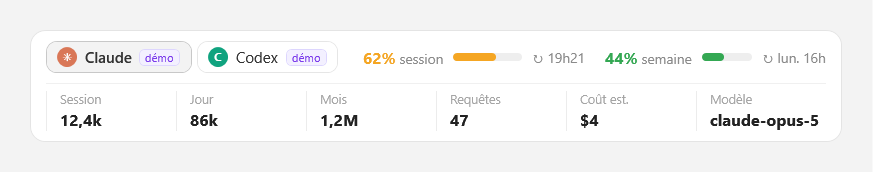
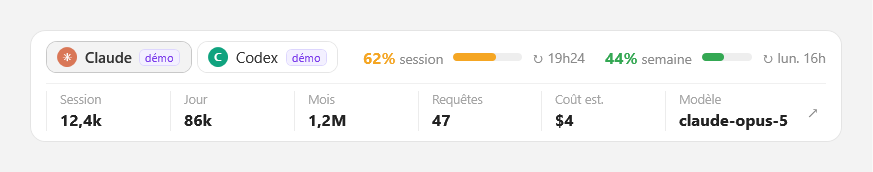
feat: lien vers la page de consommation du fournisseur
Icone ↗ a droite de la rangee de valeurs, qui ouvre la page officielle du
fournisseur — pour Claude https://claude.ai/new#settings/usage. Le lien est
place hors de l'UniformGrid, sinon il consommerait une colonne de mesure, et
masque quand le fournisseur n'a pas de page (cas du provider Demo).

L'URL est portee par AiUsage : une propriete du fournisseur, decidee dans son
code, jamais lue depuis un fichier. Le schema est verifie avant Process.Start
malgre tout : avec UseShellExecute, une chaine quelconque ouvrirait aussi bien
un fichier ou une commande, et un futur fournisseur pourrait tirer son URL
d'ailleurs.

Claude-Session: https://claude.ai/code/session_01YT6Qea6YbvyeEBfMhfv4xK

diff --git a/Views/UsagePanel.xaml b/Views/UsagePanel.xaml
@@ -225,9 +225,16 @@
                                 Margin="16,0,0,0"/>
             </Grid>
 
-            <!-- Métriques : une colonne par mesure, filet de séparation au-dessus -->
+            <!-- Métriques : une colonne par mesure, filet de séparation au-dessus, et le lien vers
+                 la page officielle du fournisseur à droite. Le lien est hors de l'UniformGrid, sinon
+                 il consommerait une colonne de mesure. -->
             <Border BorderBrush="#F0F0F0" BorderThickness="0,1,0,0" Margin="0,8,0,0" Padding="0,6,0,0">
-                <ItemsControl ItemsSource="{Binding Metrics}">
+              <Grid>
+                <Grid.ColumnDefinitions>
+                    <ColumnDefinition Width="*"/>
+                    <ColumnDefinition Width="Auto"/>
+                </Grid.ColumnDefinitions>
+                <ItemsControl Grid.Column="0" ItemsSource="{Binding Metrics}">
                     <ItemsControl.ItemsPanel>
                         <ItemsPanelTemplate><UniformGrid Rows="1"/></ItemsPanelTemplate>
                     </ItemsControl.ItemsPanel>
@@ -246,6 +253,30 @@
                         </DataTemplate>
                     </ItemsControl.ItemTemplate>
                 </ItemsControl>
+
+                <Button Grid.Column="1" Click="OpenUsagePage_Click"
+                        VerticalAlignment="Center" Margin="8,0,0,0"
+                        Cursor="Hand" Background="Transparent" BorderThickness="0"
+                        Visibility="{Binding HasUsageUrl, Converter={StaticResource BoolToVisibilityConverter}}"
+                        ToolTip="Ouvrir la page de consommation du fournisseur">
+                    <Button.Template>
+                        <ControlTemplate TargetType="Button">
+                            <Border x:Name="Chrome" Background="Transparent" CornerRadius="6"
+                                    Padding="6,4"
+                                    SnapsToDevicePixels="True" UseLayoutRounding="True">
+                                <ContentPresenter/>
+                            </Border>
+                            <ControlTemplate.Triggers>
+                                <Trigger Property="IsMouseOver" Value="True">
+                                    <Setter TargetName="Chrome" Property="Background" Value="#F3F3F3"/>
+                                </Trigger>
+                            </ControlTemplate.Triggers>
+                        </ControlTemplate>
+                    </Button.Template>
+                    <TextBlock Text="↗" FontSize="13" Foreground="#8A8A8A"
+                               FontFamily="Segoe UI Symbol, Segoe UI"/>
+                </Button>
+              </Grid>
             </Border>
         </StackPanel>
     </Border>

diff --git a/DockPad.Tests/UsageViewModelTests.cs b/DockPad.Tests/UsageViewModelTests.cs
@@ -18,7 +18,8 @@ public class UsageViewModelTests
     private static AiUsage Usage(string id, string name = "", bool demo = false,
                                  long session = 12_400, long day = 86_000, long month = 1_200_000,
                                  int requests = 47, string cost = "$4", string model = "claude-opus-5",
-                                 int? sessionUsed = 62, int? weekUsed = 44) => new()
+                                 int? sessionUsed = 62, int? weekUsed = 44,
+                                 string usageUrl = "") => new()
     {
         ProviderId = id,
         Name = name.Length > 0 ? name : id,
@@ -26,6 +27,7 @@ public class UsageViewModelTests
         AccentColor = "#123456",
         Model = model,
         Cost = cost,
+        UsageUrl = usageUrl,
         SessionTokens = session,
         DayTokens = day,
         MonthTokens = month,
@@ -298,6 +300,43 @@ public class UsageViewModelTests
         Assert.Equal("semaine", vm.WeekGauge!.Label);
         Assert.Contains("62 % utilisés", vm.SessionGauge.Tooltip);
         Assert.Contains("38 % restants", vm.SessionGauge.Tooltip);
+    }
+
+    // --- Page du fournisseur
+
+    [Fact]
+    public async Task UsageUrl_SansUrl_LeLienEstMasque()
+    {
+        var vm = Build(ConfigFor(("a", false)), Usage("a"));
+        await vm.RefreshAsync();
+
+        Assert.False(vm.HasUsageUrl);
+        Assert.Equal("", vm.UsageUrl);
+    }
+
+    [Fact]
+    public async Task UsageUrl_AvecUrl_LeLienEstVisible()
+    {
+        var vm = Build(ConfigFor(("a", false)),
+                       Usage("a", usageUrl: "https://claude.ai/new#settings/usage"));
+        await vm.RefreshAsync();
+
+        Assert.True(vm.HasUsageUrl);
+        Assert.Equal("https://claude.ai/new#settings/usage", vm.UsageUrl);
+    }
+
+    [Fact]
+    public async Task UsageUrl_SuitLeFournisseurAffiche()
+    {
+        var vm = Build(ConfigFor(("a", false), ("b", false)),
+                       Usage("a", usageUrl: "https://a.example/usage"),
+                       Usage("b"));
+        await vm.RefreshAsync();
+
+        Assert.Equal("https://a.example/usage", vm.UsageUrl);
+
+        vm.Select("b");
+        Assert.False(vm.HasUsageUrl);   // le fournisseur suivant n'a pas de page
     }
 
     // --- Démo

diff --git a/Views/UsagePanel.xaml.cs b/Views/UsagePanel.xaml.cs
@@ -1,5 +1,7 @@
+using System.Diagnostics;
 using System.Windows;
 using DockPad.Models;
+using DockPad.Services;
 using DockPad.Services.Usage;
 
 namespace DockPad.Views;
@@ -33,6 +35,31 @@ public partial class UsagePanel : UserControl
 
     /// <summary>Arrête le rafraîchissement. À appeler quand la fenêtre hôte se masque.</summary>
     public void Stop() => _viewModel?.Stop();
+
+    /// <summary>
+    /// Ouvre la page de consommation du fournisseur dans le navigateur par défaut.
+    /// </summary>
+    /// <remarks>
+    /// Le schéma est vérifié avant le lancement. L'URL vient aujourd'hui d'une constante dans le
+    /// code du fournisseur, mais <c>Process.Start</c> avec <c>UseShellExecute</c> exécuterait aussi
+    /// bien un chemin de fichier ou une commande : la garde évite qu'un futur fournisseur qui lirait
+    /// son URL ailleurs n'ouvre autre chose qu'une page web.
+    /// </remarks>
+    private void OpenUsagePage_Click(object sender, RoutedEventArgs e)
+    {
+        var url = _viewModel?.UsageUrl ?? "";
+        if (!Uri.TryCreate(url, UriKind.Absolute, out var uri)) return;
+        if (uri.Scheme != Uri.UriSchemeHttp && uri.Scheme != Uri.UriSchemeHttps) return;
+
+        try
+        {
+            Process.Start(new ProcessStartInfo(uri.AbsoluteUri) { UseShellExecute = true });
+        }
+        catch (Exception ex)
+        {
+            LogService.Warn(ex, "Ouverture de la page de consommation du fournisseur");
+        }
+    }
 
     private void Tab_Click(object sender, RoutedEventArgs e)
     {

diff --git a/Services/Usage/UsageViewModel.cs b/Services/Usage/UsageViewModel.cs
@@ -62,6 +62,12 @@ public sealed class UsageViewModel : INotifyPropertyChanged
     /// <summary>Le fournisseur affiché produit des données de démonstration.</summary>
     public bool IsDemo { get; private set; }
 
+    /// <summary>Page web de consommation du fournisseur affiché, vide s'il n'en a pas.</summary>
+    public string UsageUrl { get; private set; } = "";
+
+    /// <summary>Le fournisseur affiché a une page web à ouvrir.</summary>
+    public bool HasUsageUrl => UsageUrl.Length > 0;
+
     public UsageGaugeItem? SessionGauge { get; private set; }
     public UsageGaugeItem? WeekGauge { get; private set; }
 
@@ -140,6 +146,7 @@ public sealed class UsageViewModel : INotifyPropertyChanged
         IsVisible = _config.Enabled && selected is not null;
         ShowTabs = _snapshots.Count > 1;
         IsDemo = selected?.IsDemo ?? false;
+        UsageUrl = selected?.UsageUrl ?? "";
 
         SoloName = selected?.Name ?? "";
         SoloGlyph = selected?.Glyph ?? "";
@@ -254,6 +261,7 @@ public sealed class UsageViewModel : INotifyPropertyChanged
                  {
                      nameof(IsVisible), nameof(ShowTabs), nameof(SoloName), nameof(SoloGlyph),
                      nameof(SoloAccent), nameof(IsDemo), nameof(SessionGauge), nameof(WeekGauge),
+                     nameof(UsageUrl), nameof(HasUsageUrl),
                  })
         {
             PropertyChanged?.Invoke(this, new PropertyChangedEventArgs(name));

diff --git a/tools/UsageShot/Program.cs b/tools/UsageShot/Program.cs
@@ -180,11 +180,13 @@ internal static class Program
     [
         new DemoUsageProvider("claude", "Claude", "✳", "#D97757",
             new DemoUsageProvider.DemoValues("claude-opus-5", 12_400, 86_000, 1_200_000, 47, "$4",
-                62, TimeSpan.FromHours(2) + TimeSpan.FromMinutes(40), 44, TimeSpan.FromDays(4))),
+                62, TimeSpan.FromHours(2) + TimeSpan.FromMinutes(40), 44, TimeSpan.FromDays(4),
+                UsageUrl: "https://claude.ai/new#settings/usage")),
 
         new DemoUsageProvider("codex", "Codex", "C", "#10A37F",
             new DemoUsageProvider.DemoValues("gpt-5-codex", 8_100, 54_000, 760_000, 31, "$2",
-                38, TimeSpan.FromHours(4), 27, TimeSpan.FromDays(4))),
+                38, TimeSpan.FromHours(4), 27, TimeSpan.FromDays(4),
+                UsageUrl: "https://platform.openai.com/usage")),
 
         new DemoUsageProvider("gemini", "Gemini", "G", "#4285F4",
             new DemoUsageProvider.DemoValues("gemini-2.5-pro", 3_600, 22_000, 310_000, 14, "$1",

diff --git a/Services/Usage/DemoUsageProvider.cs b/Services/Usage/DemoUsageProvider.cs
@@ -29,7 +29,8 @@ public sealed class DemoUsageProvider : IUsageProvider
         string Model,
         long Session, long Day, long Month, int Requests, string Cost,
         int SessionUsedPct, TimeSpan SessionResetIn,
-        int WeekUsedPct, TimeSpan WeekResetIn);
+        int WeekUsedPct, TimeSpan WeekResetIn,
+        string UsageUrl = "");
 
     private readonly string _glyph;
     private readonly string _accent;
@@ -76,6 +77,7 @@ public sealed class DemoUsageProvider : IUsageProvider
             DayTokens = _values.Day,
             MonthTokens = _values.Month,
             Requests = _values.Requests,
+            UsageUrl = _values.UsageUrl,
             Session = new UsageWindow { UsedPct = _values.SessionUsedPct, ResetsAt = now + _values.SessionResetIn },
             Week = new UsageWindow { UsedPct = _values.WeekUsedPct, ResetsAt = now + _values.WeekResetIn },
             IsDemo = true,

diff --git a/Models/AiUsage.cs b/Models/AiUsage.cs
@@ -38,6 +38,13 @@ public sealed class AiUsage
     /// <summary>Quota hebdomadaire. <c>null</c> = quota inconnu → la jauge se masque.</summary>
     public UsageWindow? Week { get; init; }
 
+    /// <summary>
+    /// Page web officielle de consommation du fournisseur, ou vide s'il n'en a pas. Portée par
+    /// l'instantané et non par la config : c'est une propriété du fournisseur, décidée dans son
+    /// code, jamais lue depuis un fichier — donc pas une porte d'entrée pour une URL arbitraire.
+    /// </summary>
+    public string UsageUrl { get; init; } = "";
+
     /// <summary>Chiffres de démonstration : l'affichage doit le signaler.</summary>
     public bool IsDemo { get; init; }
 }

diff --git a/Services/Usage/ClaudeUsageProvider.cs b/Services/Usage/ClaudeUsageProvider.cs
@@ -77,6 +77,7 @@ public sealed class ClaudeUsageProvider : IUsageProvider
             Name = Name,
             Glyph = "✳",
             AccentColor = "#D97757",
+            UsageUrl = "https://claude.ai/new#settings/usage",
             Model = totals.Model,
             Cost = ClaudePricing.Format(totals.Cost),
             SessionTokens = totals.Session,

diff --git a/CLAUDE.md b/CLAUDE.md
@@ -281,6 +281,7 @@ Rétrocompatible JSON : `SearchMode` absent → `ByProcessName` par défaut
 Bandeau sous la grille (`Views/UsagePanel.xaml`), 4ᵉ ligne de `QuickAccessWindow` : toolbar / grille / **bandeau** / pagination. Masqué, il est en `Collapsed` et ne prend aucune place.
 
 - **Contenu** : un onglet par fournisseur (pastille colorée + nom + badge « démo »), les deux jauges *session* et *semaine* sur une seule ligne chacune (pourcentage **consommé** en gras dans la couleur de la jauge, barre de 6 px, `↻ heure de reset`), puis six colonnes de métriques — Session, Jour, Mois, Requêtes, Coût est., Modèle. Coût décoché → cinq colonnes
+- **Lien ↗ vers la page officielle du fournisseur**, à droite de la rangée de valeurs (hors de l'`UniformGrid`, sinon il consommerait une colonne de mesure). L'URL est portée par `AiUsage.UsageUrl`, décidée dans le code du fournisseur et jamais lue depuis un fichier ; le schéma est tout de même vérifié avant `Process.Start` — avec `UseShellExecute`, une chaîne quelconque ouvrirait aussi bien un fichier ou une commande. Vide → le lien est masqué (cas du provider Démo dans l'application)
 - **Libellés courts (« session », « semaine ») et infobulle explicite** : le libellé seul ne dit pas si le chiffre est le consommé ou le restant, l'infobulle donne les deux. Le mot « utilisée » dans le libellé coûtait la largeur des barres
 - **Un seul fournisseur visible → aucun onglet** : nom et pastille en libellé statique. Un onglet unique et cliquable suggère un choix qui n'existe pas. Le seuil est le nombre de fournisseurs visibles, pas une constante
 - **La barre suit le restant, pas le consommé** : elle doit s'accorder avec le nombre affiché juste au-dessus. Une barre remplie à 62 % sous un « 38 % » se lit comme un défaut (vu à la capture). Jauge de carburant : elle se vide quand on consomme
